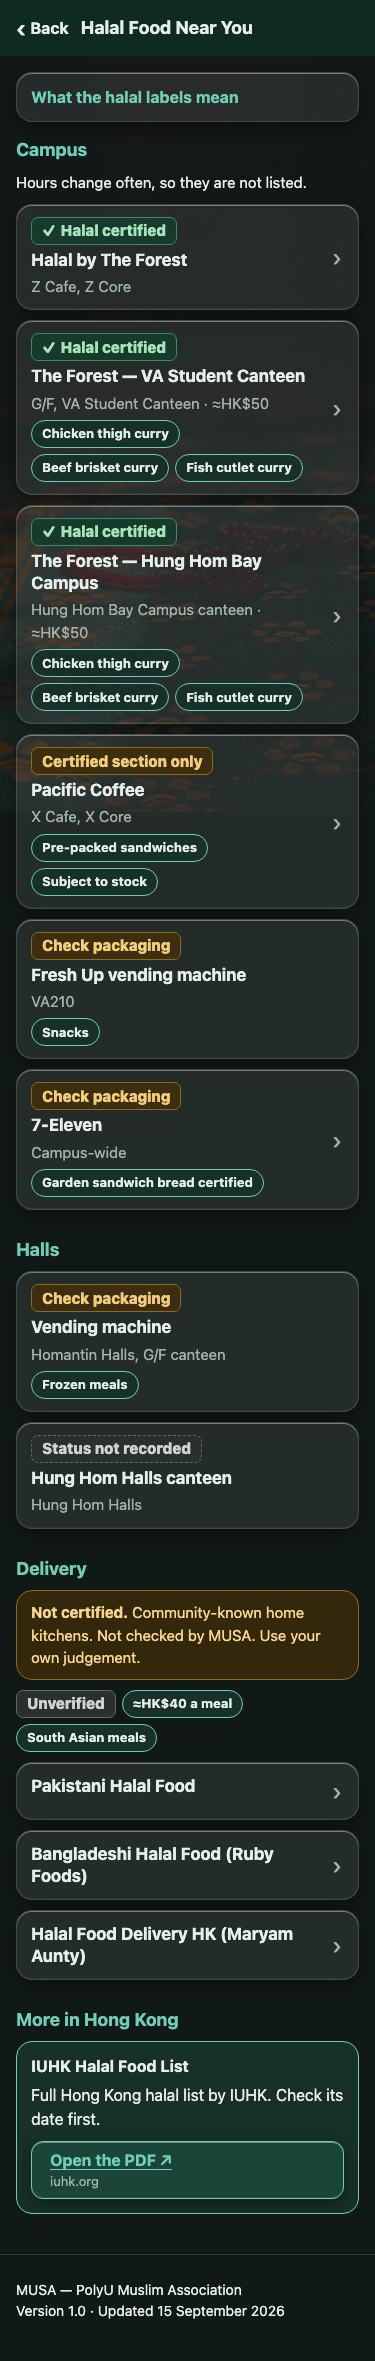
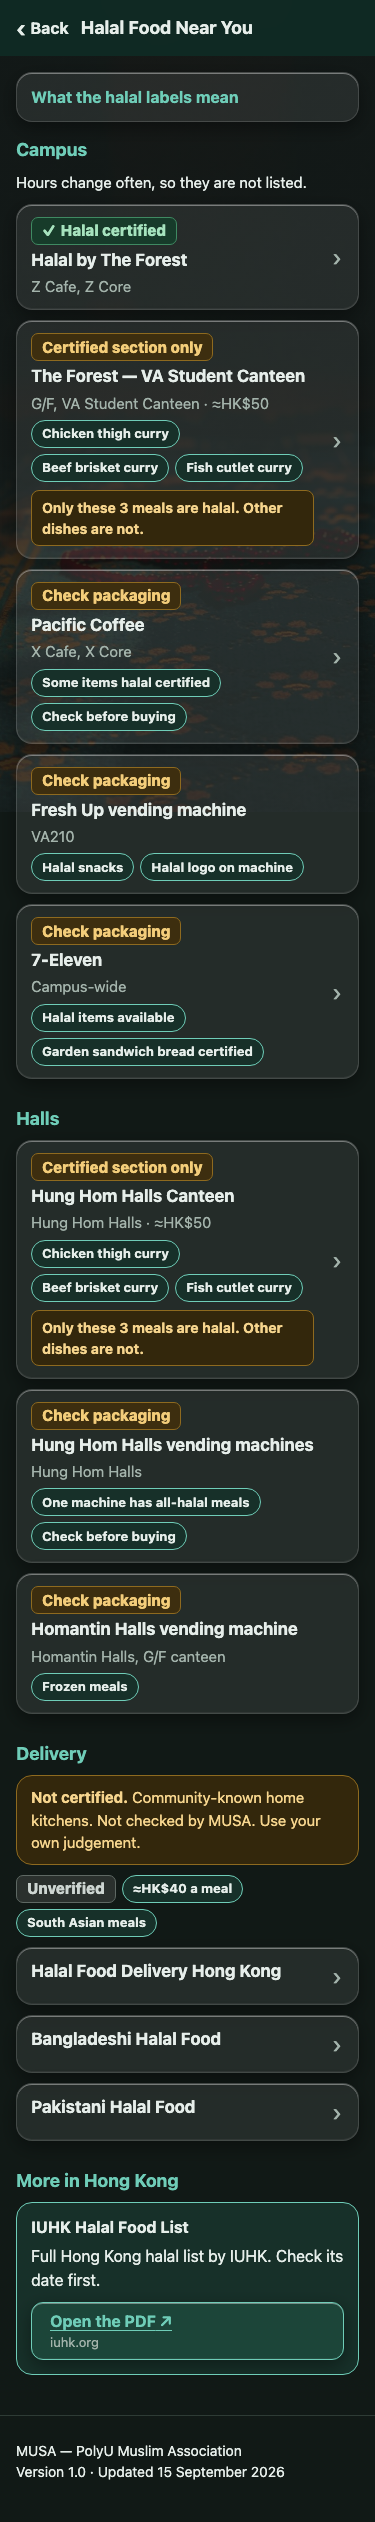
Correct the halal food listings, and add a never-folded warning
Committee corrections to Halal Food Near You:
- The Forest VA Student Canteen is not fully halal: status certified-section,
  with a warning that only its three curries are halal.
- The entry filed under Hung Hom Bay Campus was the Hung Hom Halls canteen (its
  PolyU page is hhsh-canteen). It moves to Halls as Hung Hom Halls Canteen, with
  the same three-meal warning, replacing the empty placeholder.
- Pacific Coffee no longer implies all pre-packed sandwiches are halal: status
  check-packaging, tagged some items certified, check before buying.
- The VA210 machine carries halal snacks and a halal logo; 7-Eleven has halal
  items; one Hung Hom Halls vending machine sells all-halal meals, check first.
- WhatsApp groups lose personal names: Halal Food Delivery Hong Kong,
  Bangladeshi Halal Food, Pakistani Halal Food.

New warning field: a caveat that must be read before acting shows on the row in
amber, never folded away and never shared across a group. A script confirmed no
link was lost and the only status changes are the three above.

diff --git a/src/guide.js b/src/guide.js
@@ -22,7 +22,9 @@ export const SUMMARY_KEYS = ['tag', 'location', 'where', 'walk', 'district', 'wh
 export const CHIP_KEYS = ['jummah', 'prayers', 'tags', 'perk', 'delivery'];
 
 // Rendered in their own way: the status badge and the link button.
-export const SPECIAL_KEYS = ['status', 'link', 'link-label'];
+// `warning` is a caveat that must be read before acting, like "only these meals
+// are halal": it shows on the row in amber and is never folded away.
+export const SPECIAL_KEYS = ['status', 'link', 'link-label', 'warning'];
 
 // Everything else is a labelled fact inside the opened row. A key with no home
 // in any of these lists fails loudly when rendered.
@@ -44,7 +46,7 @@ const INFO_KEYS = ['note', 'link', 'link-label'];
 
 // Chips belong to their own row; a status shared by every row in a group is
 // shown once above them instead.
-const NEVER_SHARED = new Set(['link', 'link-label', 'jummah', 'jummah-note', 'prayers', 'tags', 'perk', 'delivery']);
+const NEVER_SHARED = new Set(['link', 'link-label', 'jummah', 'jummah-note', 'prayers', 'tags', 'perk', 'delivery', 'warning']);
 
 // A `tags` value is several chips: "South Asian meals · Several options daily".
 export function splitTags(value) {
@@ -104,6 +106,7 @@ export function rowParts(entry, shared = []) {
   return {
     status: hidden.has('status') ? null : statusOf(entry),
     chips,
+    warnings: fields.filter((f) => f.key === 'warning').map((f) => f.value),
     summary,
     facts,
     link,

diff --git a/tests/smoke.spec.js b/tests/smoke.spec.js
@@ -104,6 +104,10 @@ test('halal status, Jummah and warnings are visible without tapping anything', a
         }, expected);
         if (!shown) problems.push(`${entry.name}: status "${expected}" not visible on the row or above its group`);
       }
+      if (fields.warning) {
+        const note = card.locator('.row-head .row-warning', { hasText: fields.warning });
+        if (!(await note.isVisible())) problems.push(`${entry.name}: warning "${fields.warning}" hidden`);
+      }
       if (fields.jummah) {
         const chip = card.locator('.row-head .chip', { hasText: fields.jummah === 'yes' ? /^Jummah$/ : /^No Jummah$/ });
         if (!(await chip.isVisible())) problems.push(`${entry.name}: Jummah chip hidden`);

diff --git a/src/styles.css b/src/styles.css
@@ -452,6 +452,19 @@ main {
   overflow-wrap: anywhere;
 }
 
+/* A caveat on the row itself, in the warning colours: visible without tapping. */
+.row-warning {
+  display: block;
+  margin-top: 0.25rem;
+  padding: 0.375rem 0.625rem;
+  border: 1px solid var(--warn-line);
+  border-radius: calc(var(--radius-control) - 4px);
+  background: var(--warn-bg);
+  color: var(--warn-ink);
+  font-size: 0.875rem;
+  font-weight: 700;
+}
+
 .row-summary {
   color: var(--muted);
   font-size: 0.9375rem;

diff --git a/src/app.js b/src/app.js
@@ -290,6 +290,7 @@ function renderEntry(entry, { shared = [], routable = false, context = null } = 
     h('h3', { class: 'row-name' }, entry.name),
     parts.summary ? h('span', { class: 'row-summary' }, parts.summary) : null,
     parts.chips.length ? h('span', { class: 'row-chips' }, ...parts.chips.map(renderChip)) : null,
+    ...parts.warnings.map((text) => h('span', { class: 'row-warning' }, text)),
   ];
 
   if (!parts.expandable) {

diff --git a/content.md b/content.md
@@ -181,72 +181,77 @@ Hours change often, so they are not listed.
 
 ### The Forest — VA Student Canteen
 - where: G/F, VA Student Canteen
-- status: certified
+- status: certified-section
 - price: ≈HK$50
 - tags: Chicken thigh curry · Beef brisket curry · Fish cutlet curry
+- warning: Only these 3 meals are halal. Other dishes are not.
 - link: https://www.polyu.edu.hk/cfso/campus-environment-and-facilities/catering-facilities/catering-outlets/va-student-canteen/
-
-### The Forest — Hung Hom Bay Campus
-- where: Hung Hom Bay Campus canteen
-- status: certified
-- price: ≈HK$50
-- tags: Chicken thigh curry · Beef brisket curry · Fish cutlet curry
-- link: https://www.polyu.edu.hk/cfso/campus-environment-and-facilities/catering-facilities/catering-outlets/hhsh-canteen/
 
 ### Pacific Coffee
 - where: X Cafe, X Core
-- status: certified-section
-- tags: Pre-packed sandwiches · Subject to stock
+- status: check-packaging
+- tags: Some items halal certified · Check before buying
 - link: https://www.polyu.edu.hk/cfso/campus-environment-and-facilities/catering-facilities/catering-outlets/x-cafe/
 
 ### Fresh Up vending machine
 - where: VA210
 - status: check-packaging
-- tags: Snacks
+- tags: Halal snacks · Halal logo on machine
+- TODO: confirm the machine's name (Fresh Up or Freshop)
 
 ### 7-Eleven
 - where: Campus-wide
 - status: check-packaging
-- tags: Garden sandwich bread certified
+- tags: Halal items available · Garden sandwich bread certified
 - note: Range changes. Check each pack for a halal logo.
 - link: https://www.polyu.edu.hk/fo/visitors/campus-wide-facilities/
 - TODO: list the specific certified instant noodles, juices and snacks if anyone verifies them
 
 ## Halls
 
-### Vending machine
+### Hung Hom Halls Canteen
+- where: Hung Hom Halls
+- status: certified-section
+- price: ≈HK$50
+- tags: Chicken thigh curry · Beef brisket curry · Fish cutlet curry
+- warning: Only these 3 meals are halal. Other dishes are not.
+- link: https://www.polyu.edu.hk/cfso/campus-environment-and-facilities/catering-facilities/catering-outlets/hhsh-canteen/
+
+### Hung Hom Halls vending machines
+- where: Hung Hom Halls
+- status: check-packaging
+- tags: One machine has all-halal meals · Check before buying
+- TODO: which machine it is, and whether its meals carry a halal certificate
+
+### Homantin Halls vending machine
 - where: Homantin Halls, G/F canteen
 - status: check-packaging
 - tags: Frozen meals
 - TODO: confirm the machine's brand name
 
-### Hung Hom Halls canteen
-- where: Hung Hom Halls
-- TODO: what is halal there, which counter, and the certification status
-
 ## Delivery
 
 > **Not certified.** Community-known home kitchens. Not checked by MUSA. Use your own judgement.
 
-### Pakistani Halal Food
+### Halal Food Delivery Hong Kong
 - status: unverified
 - price: ≈HK$40 a meal
 - sells: South Asian meals
-- link: https://chat.whatsapp.com/LWmReNeQYwHFVJJMLz2yZ9
+- link: https://chat.whatsapp.com/FbKoipG7m17GC9HOghzt2C
 - TODO: delivery area
 
-### Bangladeshi Halal Food (Ruby Foods)
+### Bangladeshi Halal Food
 - status: unverified
 - price: ≈HK$40 a meal
 - sells: South Asian meals
 - link: https://chat.whatsapp.com/LcFJXcxJQ3jE4zf7vVgqMd
 - TODO: delivery area
 
-### Halal Food Delivery HK (Maryam Aunty)
+### Pakistani Halal Food
 - status: unverified
 - price: ≈HK$40 a meal
 - sells: South Asian meals
-- link: https://chat.whatsapp.com/FbKoipG7m17GC9HOghzt2C
+- link: https://chat.whatsapp.com/LWmReNeQYwHFVJJMLz2yZ9
 - TODO: delivery area
 
 ## More in Hong Kong

diff --git a/CLAUDE.md b/CLAUDE.md
@@ -122,6 +122,8 @@ The logic lives in `src/guide.js`.
     value holds several chips separated by ` · `, so facts read as tags, not sentences;
   - a one-line summary from `tag`, `location`, `where`, `walk`, `district`, `what`, `sells`
     and `price`.
+- `warning` is a caveat that must be read before acting ("Only these 3 meals are halal.
+  Other dishes are not."). It shows on the row in amber, never folded away, never shared.
 - Tapping a row shows its other fields, its link, and a Copy address button when there is
   an address but no link. A row with nothing more to show does not open.
 - An entry made only of `note` and `link` is an always-open card: tips, apps, lists.
